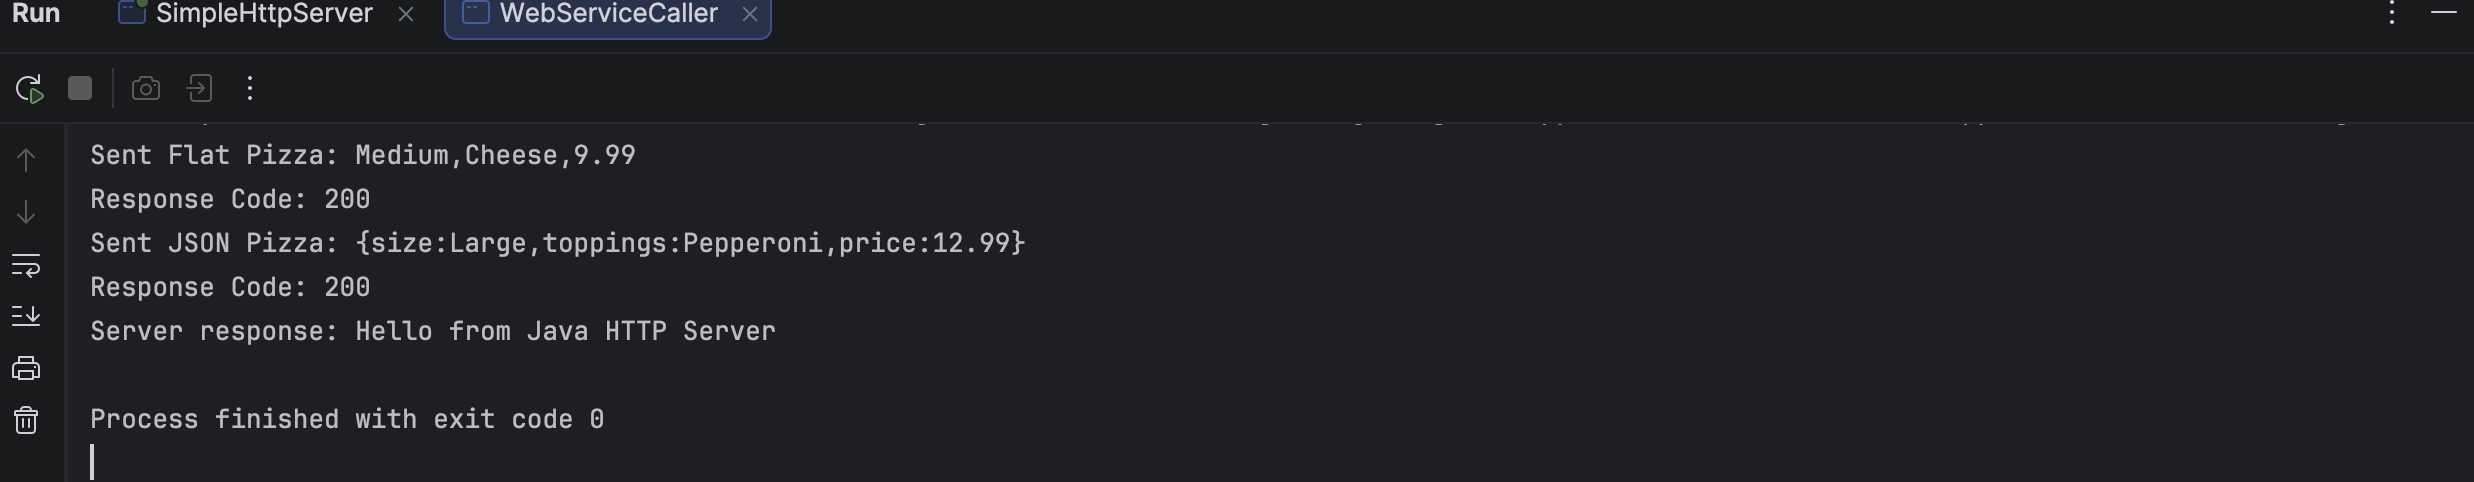
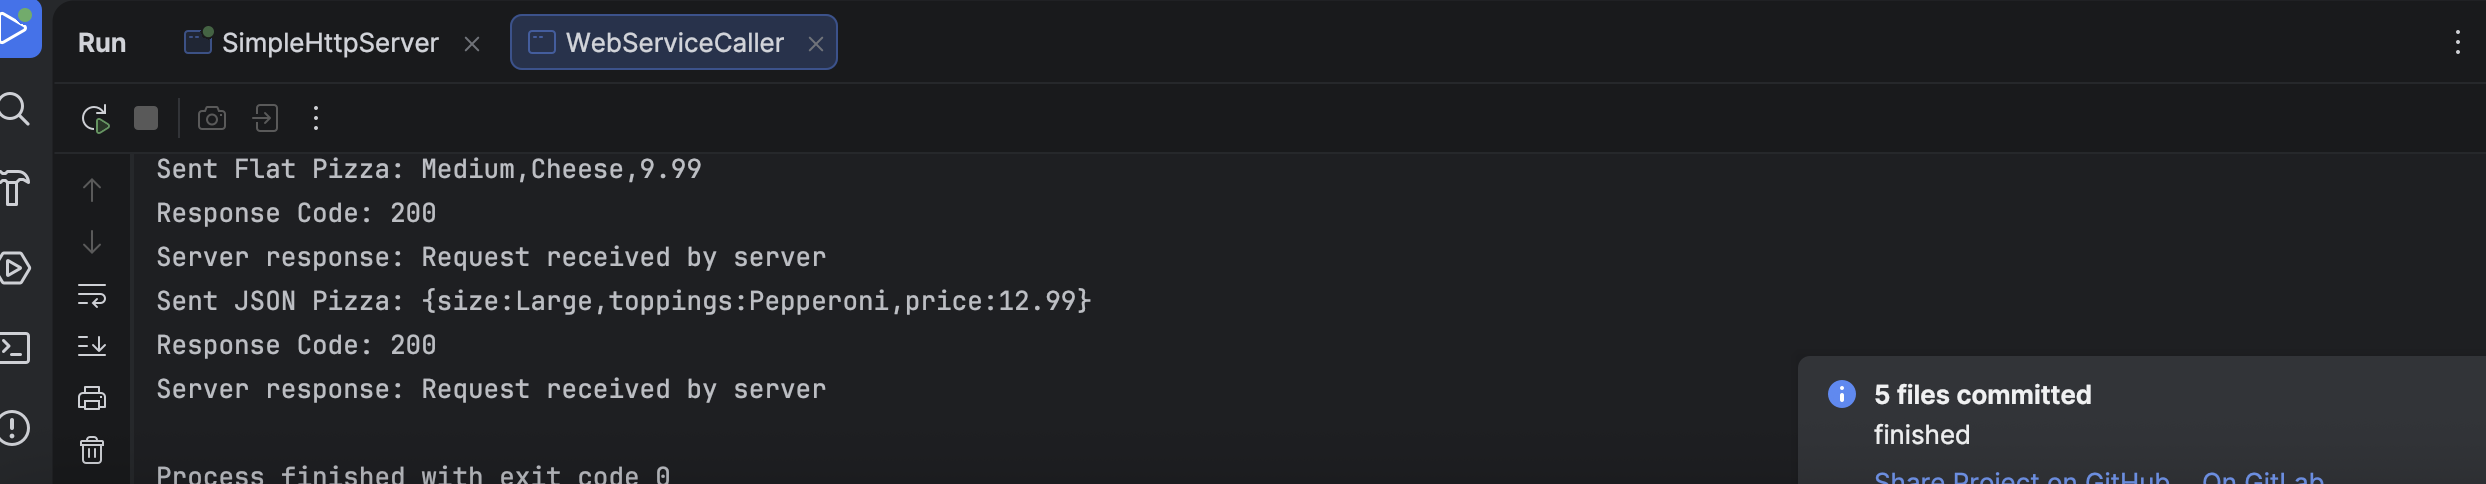
finished

diff --git a/WebServiceCaller.java b/WebServiceCaller.java
@@ -3,51 +3,46 @@ package main;
 import java.io.BufferedReader;
 import java.io.IOException;
 import java.io.InputStreamReader;
-import java.io.OutputStream;
 import java.net.HttpURLConnection;
 import java.net.URL;
 
+/**
+ * Client to send Pizza objects to the web service
+ */
 public class WebServiceCaller {
     public static void main(String[] args) {
         try {
-            // Flat Pizza
-            String flatPizza = "Medium,Cheese,9.99";
-            // JSON Pizza
-            String jsonPizza = "{size:Large,toppings:Pepperoni,price:12.99}";
+            // Create Pizza objects
+            main.Pizza flatPizza = new main.Pizza("Medium", "Cheese", 9.99);
+            main.Pizza jsonPizza = new main.Pizza("Large", "Pepperoni", 12.99);
 
-            // URL
+            // URL for server
             URL url = new URL("http://localhost:8080/hello");
-            HttpURLConnection con = (HttpURLConnection) url.openConnection();
-
-
-            con.setRequestMethod("POST");
-            con.setDoOutput(true);
 
             // Send Flat Pizza
-            OutputStream os = con.getOutputStream();
-            os.write(flatPizza.getBytes());
-            os.close();
+            HttpURLConnection con = (HttpURLConnection) url.openConnection();
+            con.setRequestMethod("GET");
+            System.out.println("Sent Flat Pizza: " + flatPizza.toFlatString());
+            System.out.println("Response Code: " + con.getResponseCode());
 
-            // Get response code
-            int responseCode = con.getResponseCode();
-            System.out.println("Sent Flat Pizza: " + flatPizza);
-            System.out.println("Response Code: " + responseCode);
+            // Read server response
+            BufferedReader in = new BufferedReader(new InputStreamReader(con.getInputStream()));
+            String line;
+            StringBuilder response = new StringBuilder();
+            while ((line = in.readLine()) != null) {
+                response.append(line);
+            }
+            in.close();
+            System.out.println("Server response: " + response);
 
             // Send JSON Pizza
             con = (HttpURLConnection) url.openConnection();
-            con.setRequestMethod("POST");
-            con.setDoOutput(true);
-            os = con.getOutputStream();
-            os.write(jsonPizza.getBytes());
-            os.close();
+            con.setRequestMethod("GET");
+            System.out.println("Sent JSON Pizza: " + jsonPizza.toJsonString());
+            System.out.println("Response Code: " + con.getResponseCode());
 
-            responseCode = con.getResponseCode();
-            System.out.println("Sent JSON Pizza: " + jsonPizza);
-            System.out.println("Response Code: " + responseCode);
-
-            BufferedReader in = new BufferedReader(new InputStreamReader(con.getInputStream()));
-            StringBuilder response = new StringBuilder();
-            String line;
+            in = new BufferedReader(new InputStreamReader(con.getInputStream()));
+            response = new StringBuilder();
             while ((line = in.readLine()) != null) {
                 response.append(line);
             }

diff --git a/Pizza.java b/Pizza.java
@@ -1,7 +1,7 @@
 package main;
 
 /**
- * Pizza class represents a pizza object
+ * Pizza class to represent a pizza object
  */
 public class Pizza {
 
@@ -16,53 +16,39 @@ public class Pizza {
         this.price = price;
     }
 
-    public Pizza() {}
+    // Getters
+    public String getSize() {
+        return size;
+    }
 
-    // Getter and Setter methods
-    public String getSize() { return size; }
-    public void setSize(String size) { this.size = size; }
+    public String getToppings() {
+        return toppings;
+    }
 
-    public String getToppings() { return toppings; }
-    public void setToppings(String toppings) { this.toppings = toppings; }
+    public double getPrice() {
+        return price;
+    }
 
-    public double getPrice() { return price; }
-    public void setPrice(double price) { this.price = price; }
+    // Setters
+    public void setSize(String size) {
+        this.size = size;
+    }
 
-    // Flat string for sending
-    public String toDataString() {
+    public void setToppings(String toppings) {
+        this.toppings = toppings;
+    }
+
+    public void setPrice(double price) {
+        this.price = price;
+    }
+
+    // Flat representation
+    public String toFlatString() {
         return size + "," + toppings + "," + price;
     }
 
-    // Create Pizza from flat string (no fancy parsing)
-    public static Pizza fromDataString(String data) {
-        String[] parts = data.split(",");
-        Pizza pizza = new Pizza();
-        pizza.setSize(parts[0]);
-        pizza.setToppings(parts[1]);
-        pizza.setPrice(Double.parseDouble(parts[2]));
-        return pizza;
-    }
-
-    // JSON
-    public String toJSON() {
+    // JSON-like representation
+    public String toJsonString() {
         return "{size:" + size + ",toppings:" + toppings + ",price:" + price + "}";
-    }
-
-    // Create Pizza
-    public static Pizza fromJSON(String data) {
-        // Remove { } and split by comma
-        data = data.replace("{", "").replace("}", "");
-        String[] parts = data.split(",");
-
-        Pizza pizza = new Pizza();
-        pizza.setSize(parts[0].split(":")[1]);
-        pizza.setToppings(parts[1].split(":")[1]);
-        pizza.setPrice(Double.parseDouble(parts[2].split(":")[1]));
-
-        return pizza;
-    }
-
-    public String toString() {
-        return "Pizza [size=" + size + ", toppings=" + toppings + ", price=" + price + "]";
     }
 }

diff --git a/SimpleHttpServer.java b/SimpleHttpServer.java
@@ -10,8 +10,9 @@ import java.net.InetSocketAddress;
 
 public class SimpleHttpServer {
     public static void main(String[] args) throws Exception {
-        HttpServer server = HttpServer.create(new InetSocketAddress(8080), 0);        server.createContext("/hello", new MyHandler());
-        server.setExecutor(null);
+        HttpServer server = HttpServer.create(new InetSocketAddress(8080), 0);
+        server.createContext("/hello", new MyHandler());
+        server.setExecutor(null); // default executor
         server.start();
         System.out.println("Server running on port 8080...");
     }
@@ -19,10 +20,13 @@ public class SimpleHttpServer {
     static class MyHandler implements HttpHandler {
         @Override
         public void handle(HttpExchange exchange) throws IOException {
-           //message
-            String response = "Hello from Java HTTP Server";
+            // Print to console when a request is received
             System.out.println("Received a request!");
+
+            // Simple text response for the client
+            String response = "Request received by server";
             exchange.sendResponseHeaders(200, response.getBytes().length);
+
             OutputStream os = exchange.getResponseBody();
             os.write(response.getBytes());
             os.close();
